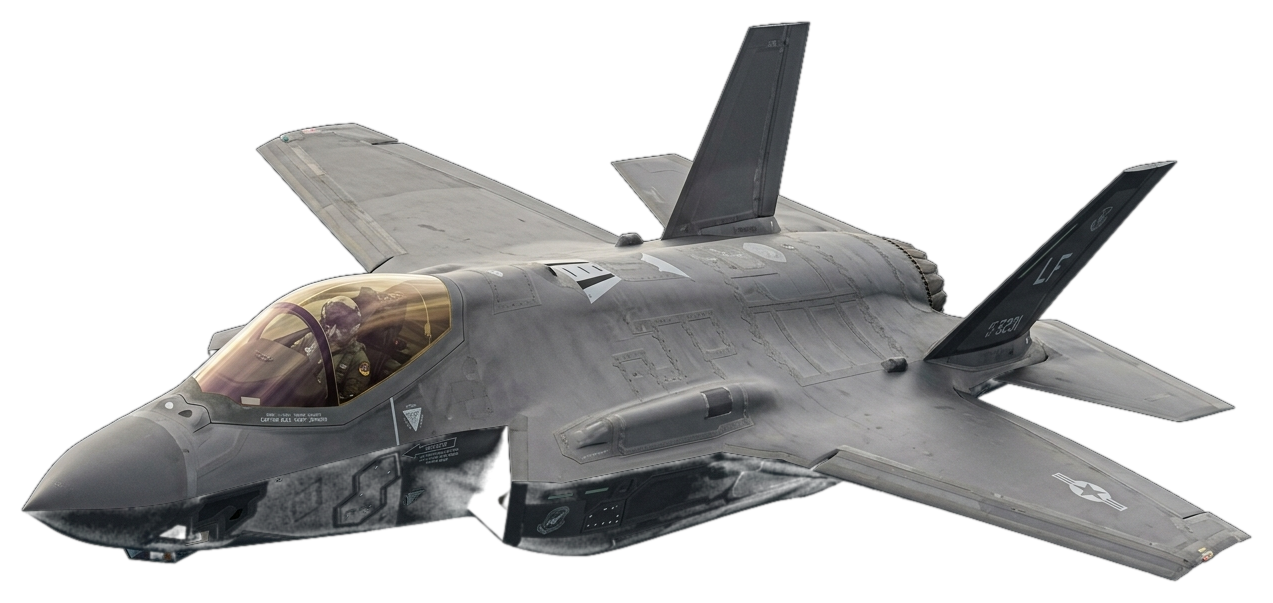
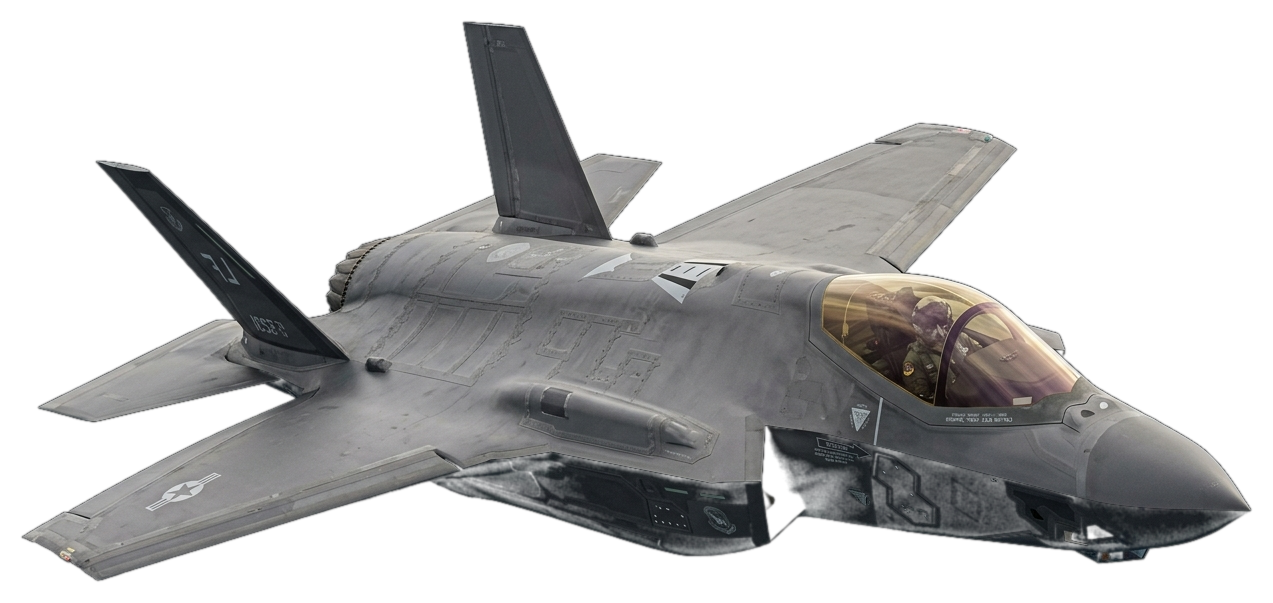
fix: Ensure all left aircrafts face toward the right and right aircrafts face toward the left

diff --git a/src/styles/wireframe-jets.css b/src/styles/wireframe-jets.css
@@ -288,13 +288,23 @@
 }
 
 /* Supersonic Boost Animation Triggered on Jet Click */
-.jet-entity.supersonic-fly {
-  animation: supersonicBoost 0.9s cubic-bezier(0.25, 1, 0.5, 1) forwards;
+.row-left .jet-entity.supersonic-fly {
+  animation: supersonicBoostRight 0.9s cubic-bezier(0.25, 1, 0.5, 1) forwards;
 }
 
-@keyframes supersonicBoost {
+.row-right .jet-entity.supersonic-fly {
+  animation: supersonicBoostLeft 0.9s cubic-bezier(0.25, 1, 0.5, 1) forwards;
+}
+
+@keyframes supersonicBoostRight {
   0% { transform: scale(1) translateX(0); }
-  35% { transform: scale(1.15) translateX(30px) rotate(-3deg); filter: brightness(1.5) drop-shadow(0 0 40px #ff66b2); }
+  35% { transform: scale(1.15) translateX(35px) rotate(-2deg); filter: brightness(1.5) drop-shadow(0 0 40px #ff66b2); }
+  100% { transform: scale(1) translateX(0); }
+}
+
+@keyframes supersonicBoostLeft {
+  0% { transform: scale(1) translateX(0); }
+  35% { transform: scale(1.15) translateX(-35px) rotate(2deg); filter: brightness(1.5) drop-shadow(0 0 40px #ff66b2); }
   100% { transform: scale(1) translateX(0); }
 }
 
